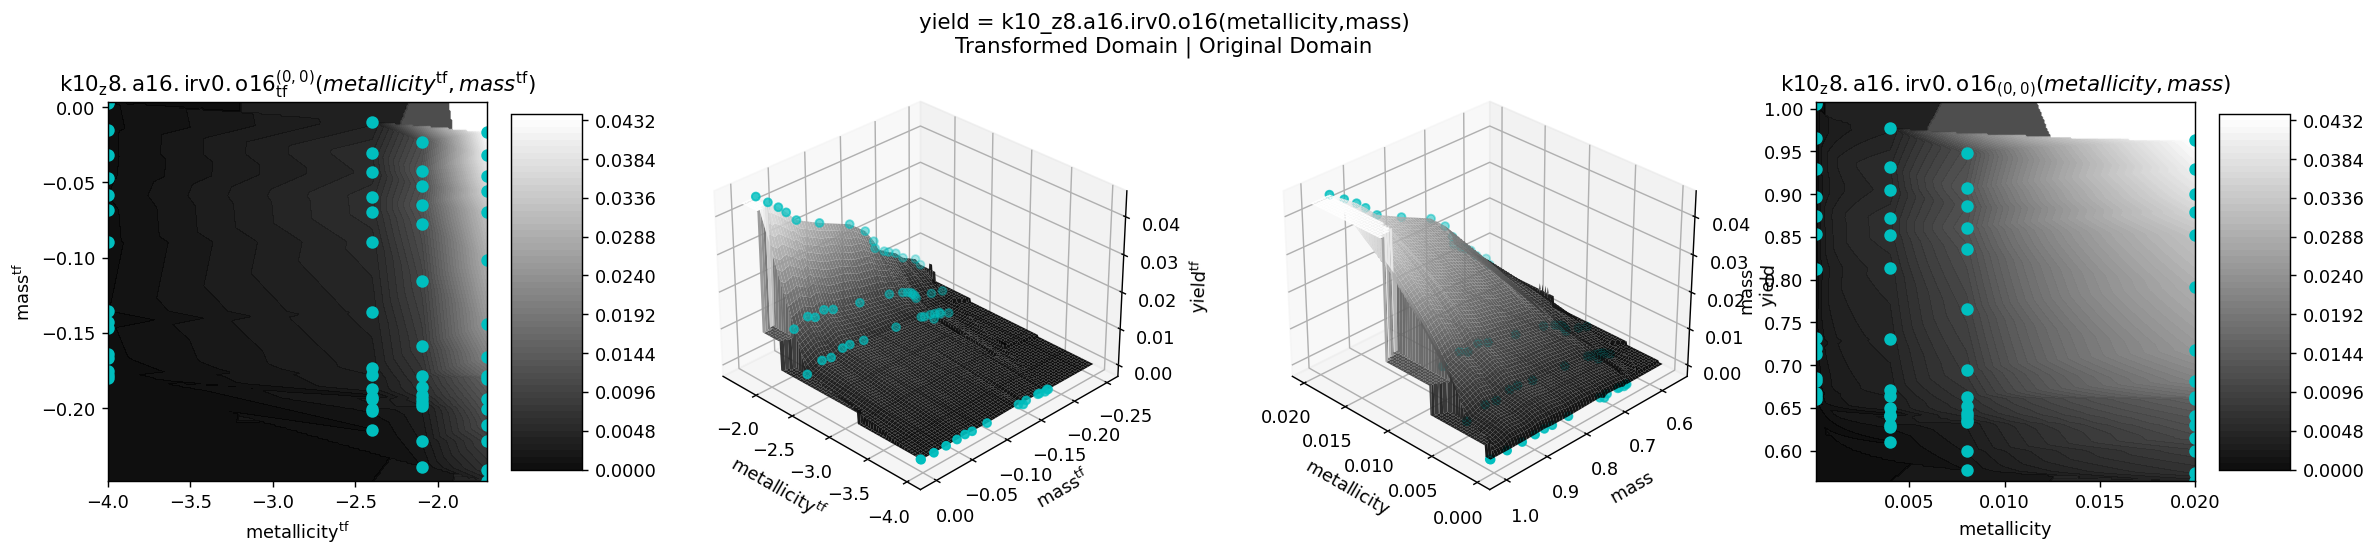
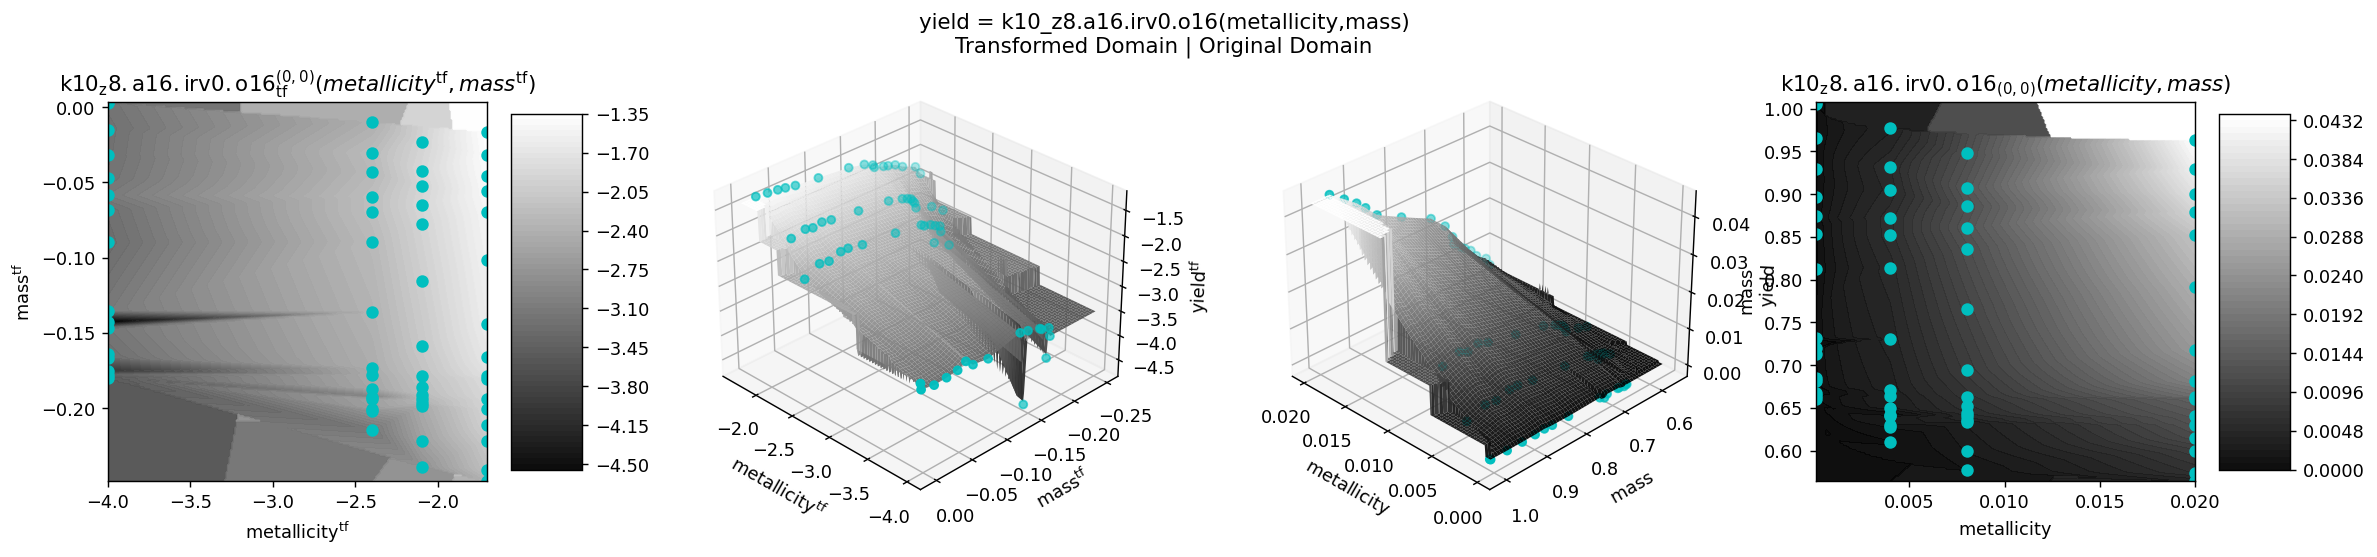
friendlyinterpolant tested

diff --git a/yield_interpolation/lifetime_mass_metallicity/main.py b/yield_interpolation/lifetime_mass_metallicity/main.py
@@ -36,7 +36,7 @@ def fit_lifetime_mass_metallicity_interpolants(df,root):
             'metallicity':lambda x:np.sqrt(x), 'metallicity.prime':lambda x:1/(2*np.sqrt(x)),
             'lifetime_Gyr':lambda y:np.log10(y), 'lifetime_Gyr.prime':lambda y:1/(y*np.log(10)), 'lifetime_Gyr.inv':lambda y:10**y},
         name = 'LifetimeInterpolant',
-        plot = False,#[None,'mass','metallicity'],
+        plot = [None,'mass','metallicity'],#False,
         fig_root = root+'/figs/',
         plot_ops={'scatter':False,'sepfl':0,'sepfr':0,'sepfb':0,'sepft':0},
         plot_mod = plot_mod)
@@ -59,7 +59,7 @@ def fit_lifetime_mass_metallicity_interpolants(df,root):
             'metallicity':lambda x:np.sqrt(x), 'metallicity.prime':lambda x:1/(2*np.sqrt(x)),
             'mass':lambda y:np.log10(y), 'mass.prime':lambda y:1/(y*np.log(10)), 'mass.inv':lambda y:10**y},
         name = 'MassInterpolant',
-        plot = False,#[None,'lifetime_Gyr','metallicity'],
+        plot = [None,'lifetime_Gyr','metallicity'], #False,
         fig_root = root+'/figs/',
         plot_ops={'scatter':False,'sepfl':0,'sepfr':0,'sepfb':0,'sepft':0},
         plot_mod = plot_mod)

diff --git a/yield_interpolation/k10/main.py b/yield_interpolation/k10/main.py
@@ -34,8 +34,8 @@ if __name__ == '__main__':
         tf_funs = {
             'mass':lambda x:np.log10(x), 'mass.prime':lambda x:1/(x*np.log(10)),
             'metallicity':lambda x:np.log10(x), 'metallicity.prime':lambda x:1/(x*np.log(10)),
-            #'yield':lambda y:np.log10(y), 'yield.prime':lambda y:1/(y*np.log(10)), 'yield.inv':lambda y:10**y
-        },
-        fit_names = 'all', # 'all', ['k10_z8.a16.irv0.o16'],
-        plot_names = [], # [], 'all', ['k10_z8.a16.irv0.o16']
+            'yield':lambda y:np.log10(y), 'yield.prime':lambda y:1/(y*np.log(10)), 'yield.inv':lambda y:10**y},
+        fit_names = 'all', # 'all', ['lc18_z8.a16.irv0.O16'],
+        plot_names = 'all' # [], 'all', ['lc18_z8.a16.irv0.O16']
         ) 
+    

diff --git a/yield_interpolation/lc18/main.py b/yield_interpolation/lc18/main.py
@@ -52,5 +52,6 @@ if __name__ == '__main__':
             'metallicity':lambda x:np.log10(x), 'metallicity.prime':lambda x:1/(x*np.log(10)),
             'yield':lambda y:np.log10(y), 'yield.prime':lambda y:1/(y*np.log(10)), 'yield.inv':lambda y:10**y},
         fit_names = 'all', # 'all', ['lc18_z8.a16.irv0.O16'],
-        plot_names = [] # [], 'all', ['lc18_z8.a16.irv0.O16']
+        plot_names = 'all' # [], 'all', ['lc18_z8.a16.irv0.O16']
         ) 
+    

diff --git a/yield_interpolation/c15/main.py b/yield_interpolation/c15/main.py
@@ -47,5 +47,5 @@ if __name__ == '__main__':
             'metallicity':lambda x:np.log10(x), 'metallicity.prime':lambda x:1/(x*np.log(10)),
             'yield':lambda y:np.log10(y), 'yield.prime':lambda y:1/(y*np.log(10)), 'yield.inv':lambda y:10**y},
         fit_names = 'all', # 'all', ['c15_z8.a16.irv0.O16'],
-        plot_names =  [], # [], 'all', ['c15_z8.a16.irv0.O16'] 
+        plot_names =  'all', # [], 'all', ['c15_z8.a16.irv0.O16'] 
         )
